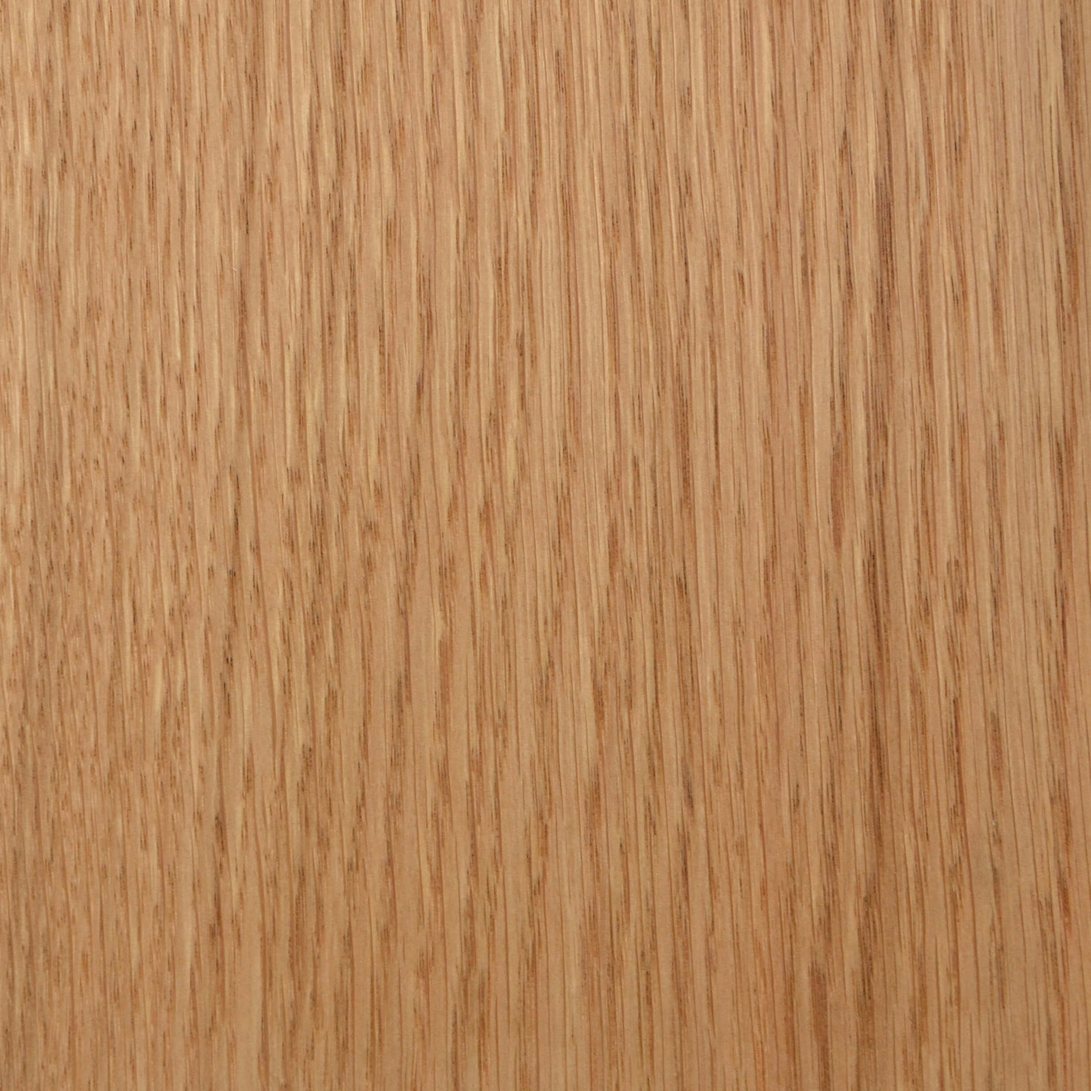
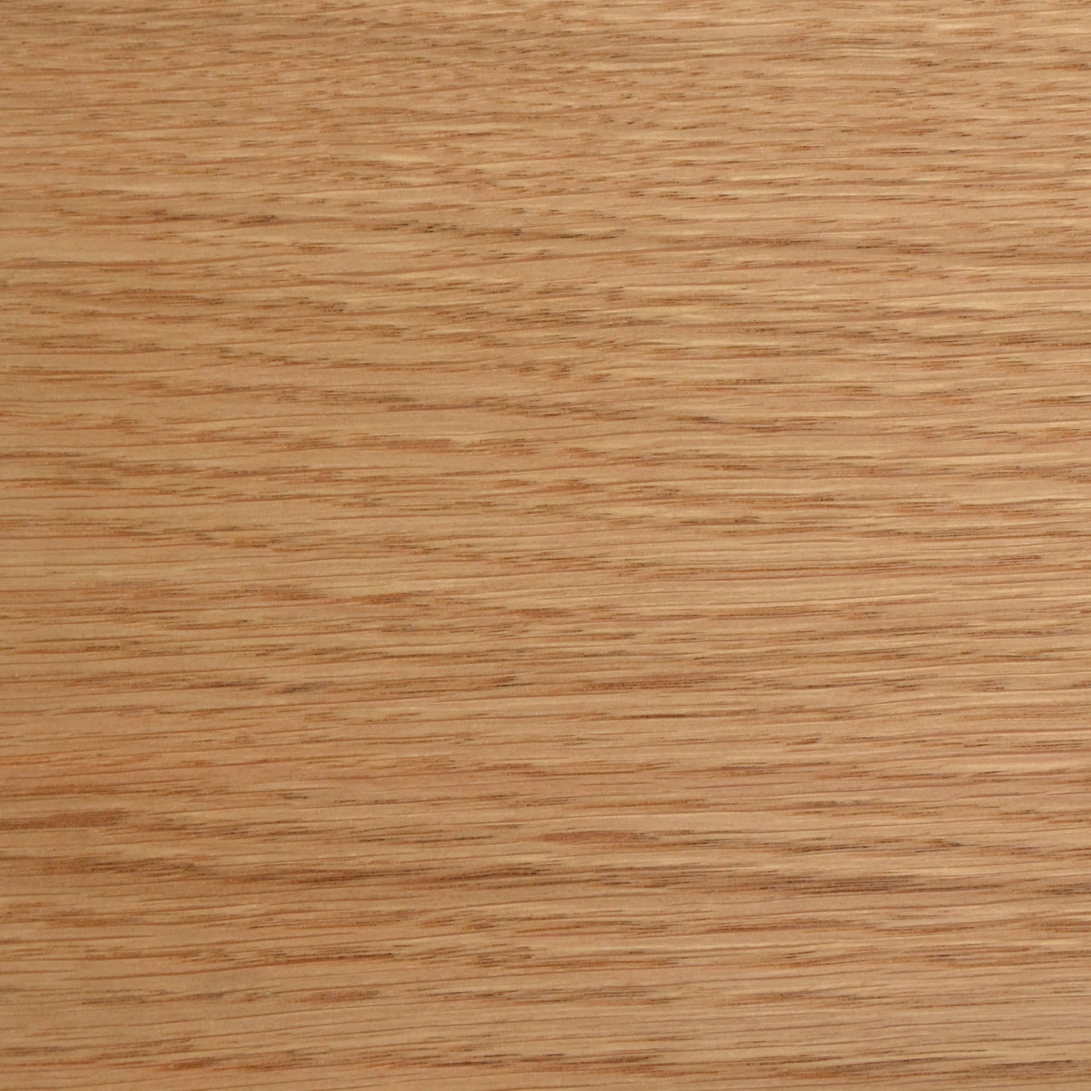
adds possiblity for rotated preview pics

diff --git a/app/src/components/MaterialPicker.vue b/app/src/components/MaterialPicker.vue
@@ -23,32 +23,32 @@
           v-if="selectedMaterial !== 'empty'"
           class="swiper-text-selected text-product-description"
         >{{activeMaterial}}</strong>
-        <div class="swiper-wrapper">
+        <div :class="selectedMaterial !== 'empty' && index %2 === 0 ? 'swiper-wrapper selected' : 'swiper-wrapper'">
           <span
             v-if="activeElement === 'woods'"
             v-for="wood in woods"
             v-on:click="setMaterial(wood.name, wood.texture)"
-            :class="selectedMaterial === wood.name ? 'text-product-description swiper-slide swiper-slide-selected' : 'text-product-description swiper-slide'"
+            :class="[selectedMaterial === wood.name ? 'text-product-description swiper-slide swiper-slide-selected' : 'text-product-description swiper-slide', index %2 === 0 && 'even']"
           >
-            <h3 v-bind:style="{ backgroundImage: 'url(' + wood.texture + ')' }" class="bg"></h3>
+            <h3 v-bind:style="{ backgroundImage: 'url(' + wood.texture + ')' }" :class="[selectedMaterial !== 'empty' ? 'bg selected' : 'bg']"></h3>
             <span class="text-product-description swiper-description">{{wood.name}}</span>
           </span>
           <span
             v-if="activeElement === 'fabrics'"
             v-for="fabric in fabrics"
             v-on:click="setMaterial(fabric.name, fabric.texture)"
-            :class="selectedMaterial === fabric.name ? 'text-product-description swiper-slide swiper-slide-selected' : 'text-product-description swiper-slide'"
+            :class="[selectedMaterial === fabric.name ? 'text-product-description swiper-slide swiper-slide-selected' : 'text-product-description swiper-slide', index %2 === 0 && 'even']"
           >
-            <h3 v-bind:style="{ backgroundImage: 'url(' + fabric.texture + ')' }" class="bg"></h3>
+            <h3 v-bind:style="{ backgroundImage: 'url(' + fabric.texture + ')' }" :class="selectedMaterial !== 'empty' ? 'bg selected ' : 'bg'"></h3>
             <span class="text-product-description swiper-description">{{fabric.name}}</span>
           </span>
           <span
             v-if="activeElement === 'papers'"
             v-for="paper in papers"
             v-on:click="setMaterial(paper.name, paper.texture)"
-            :class="selectedMaterial === paper.name ? 'text-product-description swiper-slide swiper-slide-selected' : 'text-product-description swiper-slide'"
+            :class="[selectedMaterial === paper.name ? 'text-product-description swiper-slide swiper-slide-selected' : 'text-product-description swiper-slide', index %2 === 0 && 'even']"
           >
-            <h3 v-bind:style="{ backgroundImage: 'url(' + paper.texture + ')' }" class="bg"></h3>
+            <h3 v-bind:style="{ backgroundImage: 'url(' + paper.texture + ')' }" :class="selectedMaterial !== 'empty' ? 'bg selected ' : 'bg'"></h3>
             <span class="text-product-description swiper-description">{{paper.name}}</span>
           </span>
         </div>

diff --git a/app/scss/main.scss b/app/scss/main.scss
@@ -310,6 +310,10 @@ body {
   width: 400px;
   height: 100%;
 }
+
+.swiper-wrapper.selected {
+  overflow: hidden;
+}
 .swiper-slide {
   display: inline;
   text-align: center;
@@ -317,11 +321,21 @@ body {
   display: inline-table;
   position: relative;
   cursor: pointer;
-
+  
   &-selected {
     width: 300% !important;
     position: absolute;
     z-index: 2;
+    // overflow: hidden;
+    &.even {
+      height: 297px;
+
+      h3 {
+        transform: rotate(90deg) translateX(-68.6%) translateY(-149px);
+        width: 100%;
+        transform-origin: left;
+      }
+    }
   }
   .swiper-description {
     visibility: hidden;
@@ -361,11 +375,15 @@ body {
 }
 
 .bg {
-  // background-image: url(../src/assets/materials/wood/ahorn.png);
   background-position: center center;
   background-size: contain;
-  // min-width: 34px;
   height: 100%;
+
+  &.selected {
+    background-repeat: no-repeat;
+    background-size: 54%;
+    background-position: left center;
+  }
 }
 
 .payment-section {

diff --git a/app/src/components/Threemodel.vue b/app/src/components/Threemodel.vue
@@ -65,7 +65,11 @@ export default {
           this.loadModel(model);
         } else if (this.setModel[1] === 2) {
           this.loadModel(model2);
+        } else if (this.setModel[1] === 3) {
+          this.loadModel(model2);
         } else if (this.setModel[1] === 4) {
+          this.loadModel(model4);
+        }else if (this.setModel[1] === 5) {
           this.loadModel(model4);
         }
         if (this.objtemp) {
